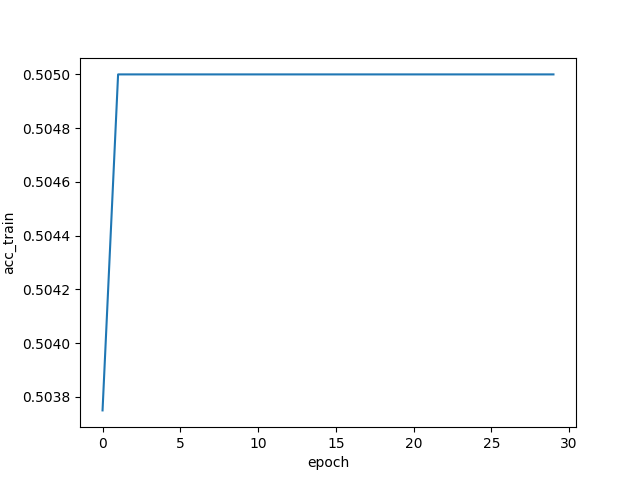
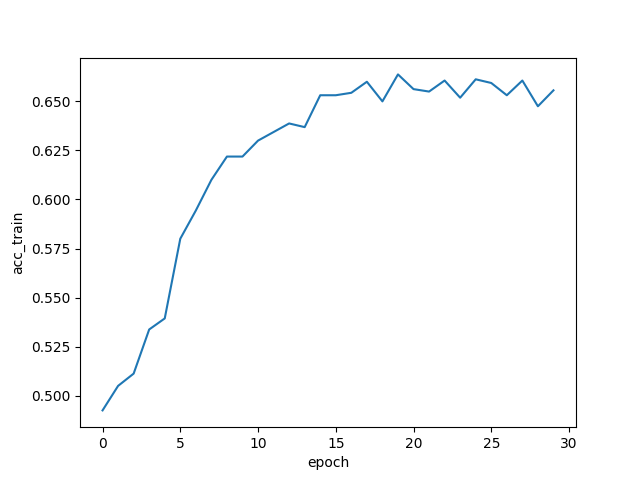
adam success

diff --git a/adam_np.py b/adam_np.py
@@ -14,12 +14,12 @@ def adam_optimizer(theta,gradient,m_pre,v_pre,t,alpha=0.001,beta1=0.9,beta2=0.99
     v_A = beta2*v_pre_A + (1-beta2)*(gradient_A**2)
     v_b = beta2*v_pre_b + (1-beta2)*(gradient_b**2)
     v = (v_w,v_A,v_b)
-    m_w_hat = m_w / (1.-beta1**t+epsilon)
-    m_A_hat = m_A / (1.-beta1**t+epsilon)
-    m_b_hat = m_b / (1.-beta1**t+epsilon)
-    v_w_hat = v_w / (1.-beta2**t+epsilon)
-    v_A_hat = v_A / (1.-beta2**t+epsilon)
-    v_b_hat = v_b / (1.-beta2**t+epsilon)
+    m_w_hat = m_w / (1.-beta1**t)
+    m_A_hat = m_A / (1.-beta1**t)
+    m_b_hat = m_b / (1.-beta1**t)
+    v_w_hat = v_w / (1.-beta2**t)
+    v_A_hat = v_A / (1.-beta2**t)
+    v_b_hat = v_b / (1.-beta2**t)
     theta_w = theta_w - alpha*m_w_hat/(np.sqrt(v_w_hat)+epsilon)
     theta_A = theta_A - alpha*m_A_hat/(np.sqrt(v_A_hat)+epsilon)
     theta_b = theta_b - alpha*m_b_hat/(np.sqrt(v_b_hat)+epsilon)

diff --git a/problem3_np.py b/problem3_np.py
@@ -26,7 +26,8 @@ def SGD(split,epochs,batch_size,D=8,all=2000,momentum=False,adam=False):
         m_pre = (m_pre_w,m_pre_A,m_pre_b) 
         (v_pre_w,v_pre_A,v_pre_b) = (create_w(mode="zero"),create_A(mode="zero"),create_b())
         v_pre = (v_pre_w,v_pre_A,v_pre_b)
-        adam_t = 0
+        # IMPORTANT: not 0
+        adam_t = 1
         adam_cache = (m_pre,v_pre,adam_t)
     #split train and test
     train = [i for i in range(int(all*split))]
@@ -144,5 +145,5 @@ if __name__ == '__main__':
     batch_size = 10
     epochs = 30
     split = 0.8
-    SGD(split,epochs,batch_size,all=2000,momentum=True)
+    SGD(split,epochs,batch_size,all=2000,adam=True)
 
